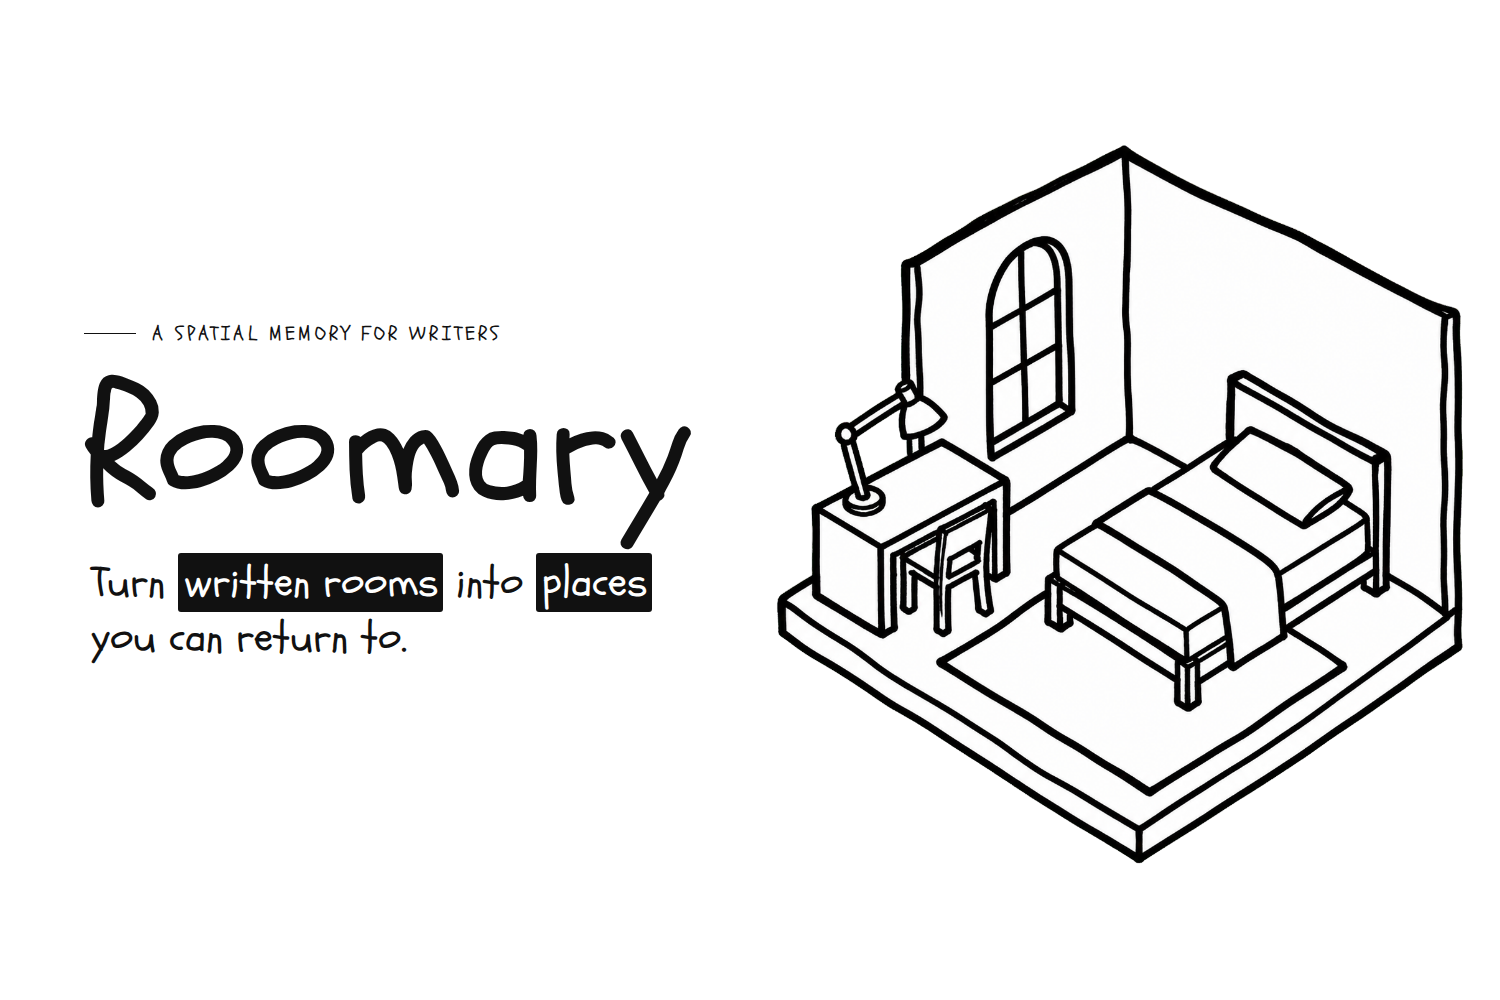
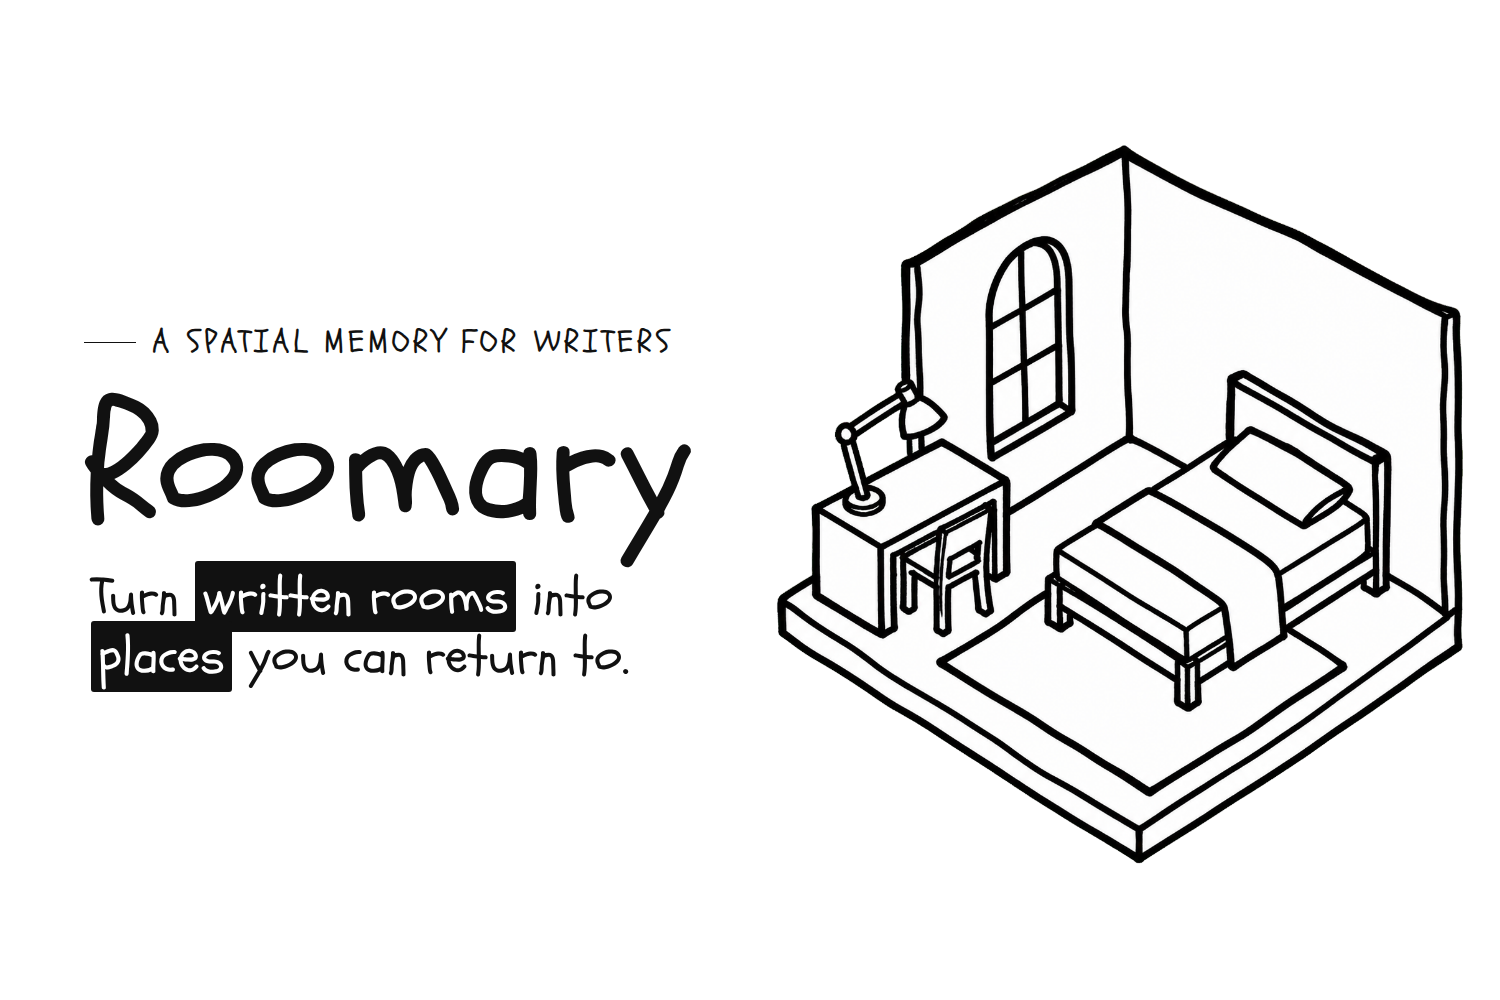
Increase thumbnail supporting text

Changed region(s): [[0.0307, 0.372, 0.46, 0.713], [0.092, 0.31, 0.46, 0.372]]

diff --git a/assets/thumbnail-roomary.html b/assets/thumbnail-roomary.html
@@ -38,9 +38,9 @@
       gap: 16px;
       margin-bottom: 27px;
       color: #111;
-      font-size: 20px;
+      font-size: 32px;
       font-weight: 400;
-      letter-spacing: .16em;
+      letter-spacing: .12em;
     }
 
     .eyebrow::before {
@@ -60,12 +60,12 @@
     }
 
     .tagline {
-      width: 610px;
-      margin: 30px 0 0 7px;
+      width: 660px;
+      margin: 24px 0 0 7px;
       color: #111;
       font-family: "Schoolbell", "Comic Neue", cursive;
-      font-size: 43px;
-      line-height: 1.28;
+      font-size: 52px;
+      line-height: 1.15;
     }
 
     .tagline strong {
